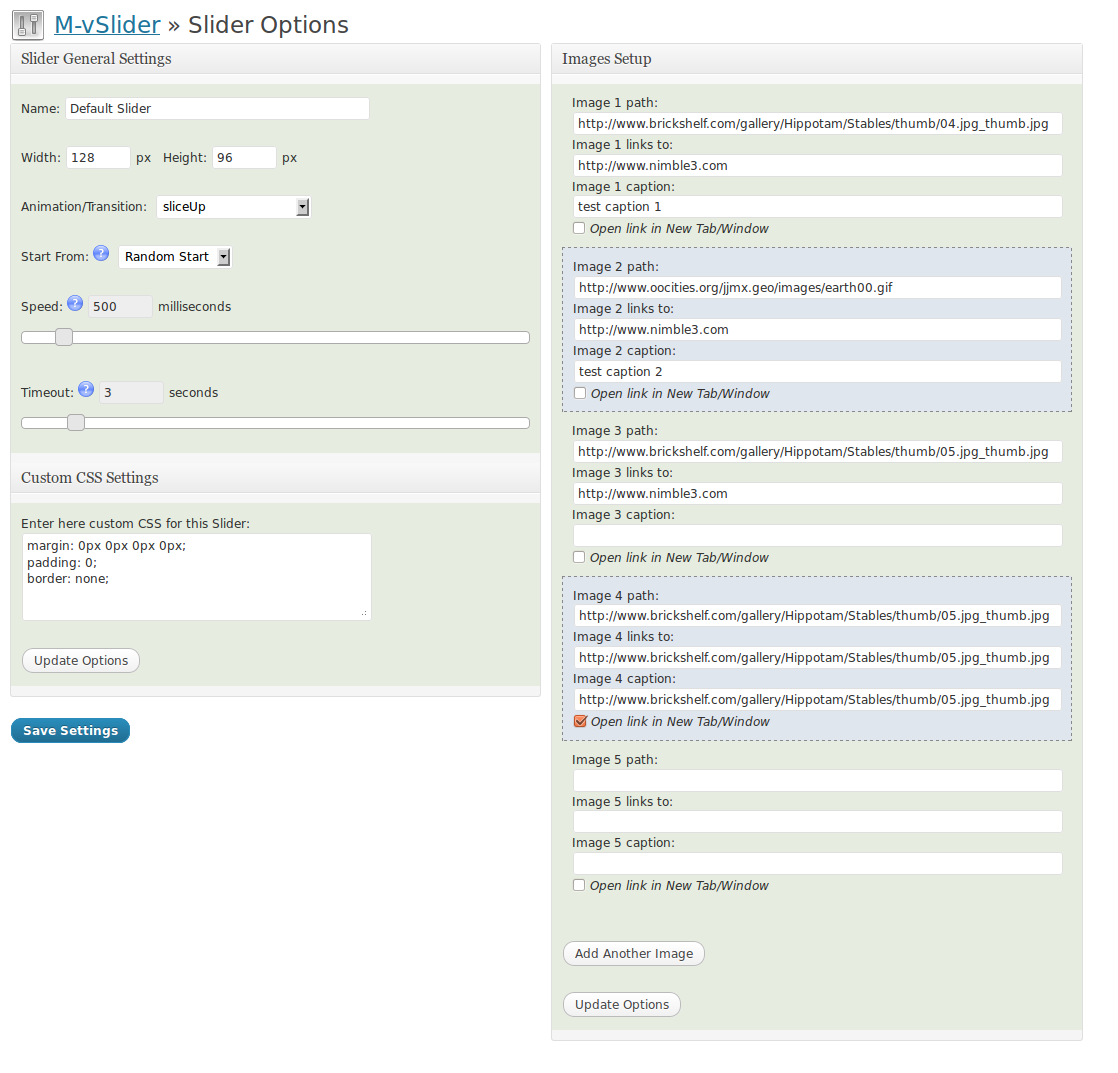
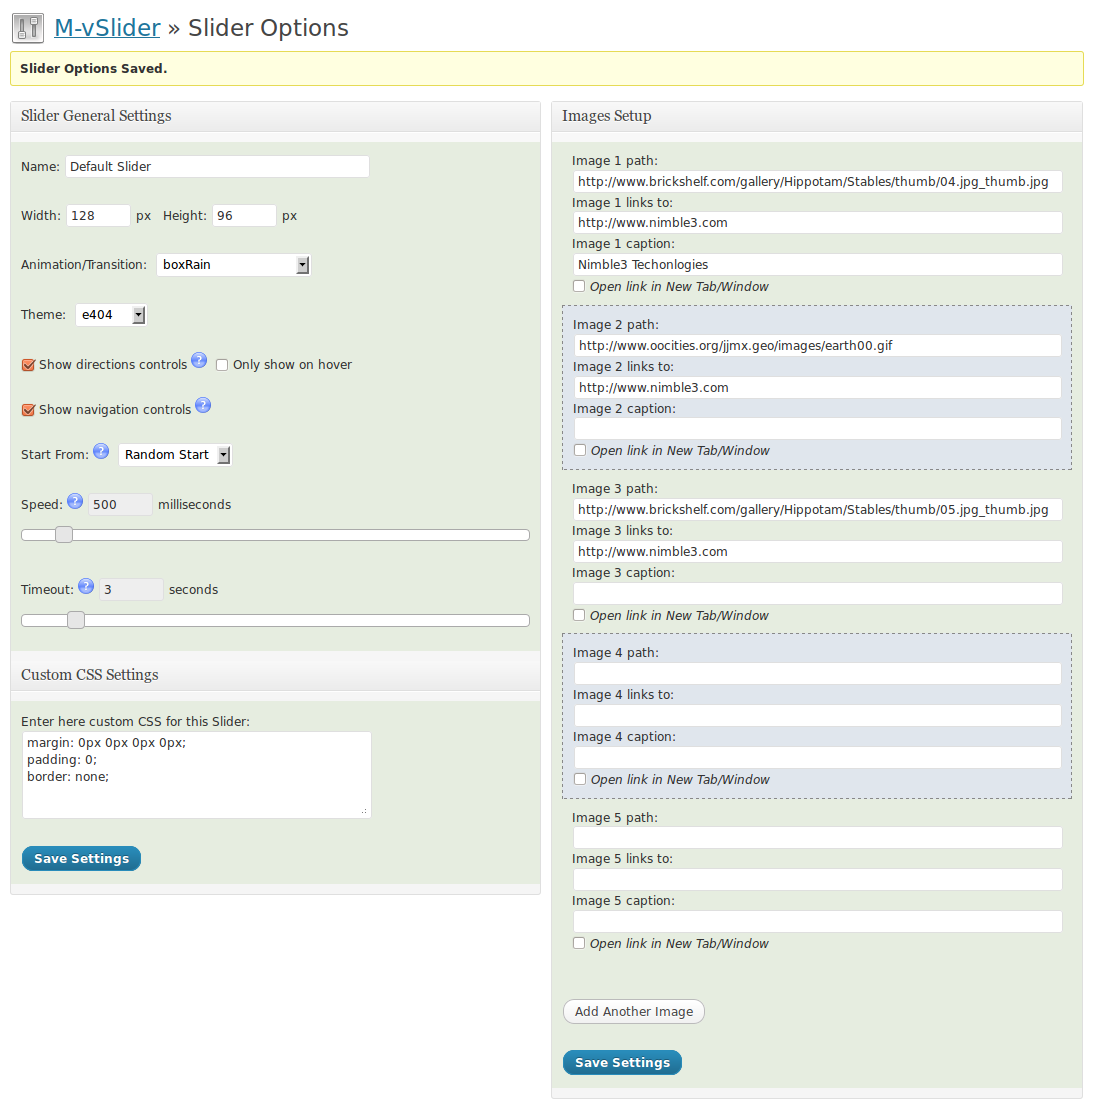
releasing 2.1.0
git-svn-id: https://plugins.svn.wordpress.org/m-vslider/trunk@573049 b8457f37-d9ea-0310-8a92-e5e31aec5664

diff --git a/themes/e404/e404.css b/themes/e404/e404.css
@@ -1,0 +1,109 @@
+.theme-e404.slider-wrapper  {
+    position: relative;
+	background:#fff url(loading.gif) no-repeat 50% 50%;
+    
+}
+
+.theme-e404 .nivo-caption {
+	background-image: url("hover_dark_bg.png");
+	color: #fff;
+	bottom: -30px;
+	font-size: 20px;
+	line-height: 24px;
+	width: auto;
+	z-index:89;
+}
+.theme-e404 .nivo-caption {
+	bottom: 20px;
+}
+.theme-e404 .nivo-caption p {
+	padding: 0 30px;
+	margin:0;
+}
+.theme-e404 .nivo-caption p {
+	padding: 12px 30px;
+}
+
+
+.theme-e404 .nivo-controlNav a.active {
+	font-weight:bold;
+}
+
+.theme-e404  img {
+	position:absolute;
+	top:0px;
+	left:0px;
+	display:none;
+}
+.theme-e404  a {
+	border:0;
+	display:block;
+}
+
+.theme-e404 .nivo-controlNav {
+	position:absolute;
+	right: 30px;
+	bottom: -30px;
+}
+
+.theme-e404 .nivo-controlNav {
+	top: 20px;
+}
+
+.theme-e404 .nivo-controlNav a {
+	display:block;
+	width:22px;
+	height:22px;
+	background:url(bullets.png) no-repeat;
+	text-indent:-9999px;
+	border:0;
+	margin-right:3px;
+	float:left;
+	position:relative;
+	z-index:990;
+	cursor:pointer;        
+}
+
+.theme-e404 .nivo-controlNav a.active {
+	background-position:0 -22px;
+}
+.theme-e404 .nivo-directionNav {
+	top: 130px;
+}
+.theme-e404 .nivo-directionNav a {
+	display:block;
+	width:43px;
+	height:43px;
+	background:url(arrows.png) no-repeat;
+	text-indent:-9999px;
+	border:0;
+}
+.theme-e404 a.nivo-nextNav {
+	background-position: -43px 0;
+	right:-61px;
+}
+.theme-e404 a.nivo-prevNav {
+	left:-61px;
+}
+.theme-e404 a.nivo-nextNav {
+	background-position: -43px 0;
+	right:15px;
+}
+
+.theme-e404 a.nivo-prevNav {
+	left:15px;
+}
+
+.theme-e404 a.nivo-nextNav:hover {
+	background-position: -43px -43px;
+}
+.theme-e404 a.nivo-prevNav:hover {
+	background-position: 0 -43px;
+}
+.theme-e404 .nivo-caption {
+    font-family: Helvetica, Arial, sans-serif;
+}
+.theme-e404 .nivo-caption a { 
+    color:#efe9d1;
+    text-decoration:underline;
+}

diff --git a/rslider-admin.js b/rslider-admin.js
@@ -38,5 +38,16 @@ jQuery(document).ready(function() {
             jQuery('#rs_totalimgs').attr('value',rs_totalimgs + 1);
         }
     });
+    
+    jQuery('#rs_showdir').click(function(){
+        jQuery('#rs_showhover').attr('disabled', 'disabled');
+        if(jQuery(this).attr('checked') == "checked") 
+           jQuery('#rs_showhover').removeAttr('disabled');
+    });
+
+    jQuery('#rs_showhover').attr('disabled', 'disabled');
+    if(jQuery('#rs_showdir').attr('checked') == "checked") 
+        jQuery('#rs_showhover').removeAttr('disabled');
+
 });
             

diff --git a/rslider.php b/rslider.php
@@ -5,7 +5,7 @@
   Description: Implementing a featured image gallery into your WordPress theme has never been easier! Showcase your portfolio, animate your header or manage your banners with M-vSlider. M-vSlider by  Muhammad Amir Ul Amin.
   Author: M. Amir Ul Amin
   Author URI: http://www.nimble3.com
-  Version: 2.0.1
+  Version: 2.0.0
 
   M-vSlider is released under GPL:
   http://www.opensource.org/licenses/gpl-license.php
@@ -14,7 +14,6 @@
 // Load jQuery from WordPress
 function rslider_enqueue() {
     wp_enqueue_style('nivo-slider-style', WP_PLUGIN_URL . '/m-vslider/nivo-slider.css', null, null, 'screen');
-    wp_enqueue_style('nivo-slider-theme', WP_PLUGIN_URL . '/m-vslider/themes/default/default.css', null, null, 'screen');
     wp_enqueue_script('jquery-nivo-slider', WP_PLUGIN_URL . '/m-vslider/jquery.nivo.slider.js', array('jquery'));
 }
 
@@ -32,6 +31,7 @@ function rslider_head() {
         $rs_script_tag = "";
         foreach ($mainrows as $myslider) {
             $rs_id = $myslider->rs_id;
+            $rs_options = unserialize($myslider->rs_options);
             $rs_name = $myslider->rs_name;
             $rs_width = $myslider->rs_width;
             $rs_height = $myslider->rs_height;
@@ -41,14 +41,20 @@ function rslider_head() {
             $rs_timeout = $myslider->rs_timeout * 1000;
             $rs_type = $myslider->rs_type;
             $rs_type = $rs_type == "random_start" ? 'true' : 'false';
+            $rs_showdir = $rs_options['rs_showdir'];
+            $rs_showdir = $rs_showdir ? 'true' : 'false';
+            $rs_shownav = $rs_options['rs_shownav'];
+            $rs_shownav = $rs_shownav ? 'true' : 'false';
+            $rs_showhover = $rs_options['rs_showhover'];
+            $rs_showhover = $rs_showhover && $rs_showdir ? 'true' : 'false';
             $rs_style_tag .= "#rslider$rs_id { width: {$rs_width}px; height: {$rs_height}px; $rs_css }\n";
             $rs_script_tag .= "jQuery('#rslider$rs_id').nivoSlider({ 
                                     effect: '$rs_animstyle',
                                     animSpeed: $rs_speed, 
                                     pauseTime: $rs_timeout,
-                                    directionNav: false, 
-                                    directionNavHide: true, 
-                                    controlNav: false, 
+                                    directionNav: $rs_showdir, 
+                                    directionNavHide: $rs_showhover, 
+                                    controlNav: $rs_shownav, 
                                     controlNavThumbs: false,
                                     pauseOnHover: true, 
                                     randomStart: $rs_type
@@ -82,8 +88,11 @@ function rslider($atts = 0) {
     if ($rs_rows = $wpdb->get_results($rs_sql)) {
         if ($rs_rows[0]) {
             $rs_row = $rs_rows[0];
+            $rs_options = unserialize($rs_row->rs_options);
+            $rs_theme = $rs_options['rs_theme'];
+            wp_enqueue_style('nivo-slider-theme', WP_PLUGIN_URL . "/m-vslider/themes/$rs_theme/$rs_theme.css", null, null, 'screen');
             ?>
-            <div class="slider-wrapper" style="<?php echo "width: {$rs_row->rs_width}px; height: {$rs_row->rs_height}px;";?>">
+            <div class="slider-wrapper theme-<?php echo $rs_theme;?>" style="<?php echo "width: {$rs_row->rs_width}px;";?>">
                 <div id="rslider<?php echo $rs_id; ?>" class="nivoSlider">
                     <?php
                     $rs_images = unserialize($rs_row->rs_images);
@@ -297,6 +306,13 @@ function rslider_page() {
 
         if ('process' == $_POST['tcOptions']) {
 
+            $rs_options = array(
+                'rs_showdir' => $_POST['rs_showdir'],
+                'rs_shownav' => $_POST['rs_shownav'],
+                'rs_showhover' => $_POST['rs_showhover'],
+                'rs_theme' => $_POST['rs_theme']
+            );
+
             $updatequery = "UPDATE $table_slider SET rs_name='" . $_POST['rs_name'] . "',";
 
             if ($_POST['rs_width']) {
@@ -321,11 +337,18 @@ function rslider_page() {
                 $updatequery .= " rs_type = '" . $_POST['rs_type'] . "',";
             }
 
+            $updatequery .= " rs_options = '" . stripslashes(serialize($rs_options)) . "',";
+
             $rs_count = $_POST['rs_totalimgs'] > $rs_config_count ? $_POST['rs_totalimgs'] : $rs_config_count;
             $rs_images = array();
             for ($i = 0; $i < $rs_count; $i++) {
                 if ($_POST["rs_img$i"]) {
-                    $rs_images[] = array('img' => $_POST["rs_img$i"], 'url' => $_POST["rs_lnk$i"], 'cap' => $_POST["rs_cap$i"], 'blank' => array_key_exists("rs_bnk$i", $_POST));
+                    $rs_images[] = array(
+                        'img' => $_POST["rs_img$i"], 
+                        'url' => $_POST["rs_lnk$i"], 
+                        'cap' => $_POST["rs_cap$i"], 
+                        'blank' => array_key_exists("rs_bnk$i", $_POST)
+                    );
                 }
             }
 
@@ -347,6 +370,7 @@ function rslider_page() {
         $rs_timeout = $myslider->rs_timeout;
         $rs_type = $myslider->rs_type;
         $rs_images = unserialize($myslider->rs_images);
+        $rs_options = unserialize($myslider->rs_options);
 
         if ($rs_width == "") {
             $rs_width = 250;
@@ -363,6 +387,11 @@ function rslider_page() {
         if ($rs_css == "") {
             $rs_css = "margin: 0px 0px 0px 0px; padding: 0; border: none;";
         }
+        
+        $rs_showdir = $rs_options['rs_showdir'];
+        $rs_shownav = $rs_options['rs_shownav'];
+        $rs_showhover = $rs_options['rs_showhover'];
+        $rs_theme = $rs_options['rs_theme'];
 
         $rs_count = count($rs_images) > $rs_config_count ? count($rs_images) : $rs_config_count;
         ?>
@@ -410,6 +439,32 @@ function rslider_page() {
                                 </select>
                             </p>
                             <p>
+                                <?php _e("Theme:"); ?>&nbsp;
+                                <select name="rs_theme">
+                                    <?php 
+                                        if (is_dir(M_VSLIDER_DIR_THEMES_DIR))
+                                        {
+                                            $thd = dir(M_VSLIDER_DIR_THEMES_DIR);
+                                            while (false !== ($theme_name = $thd->read())) { 
+                                                echo M_VSLIDER_DIR_THEMES_DIR . $theme_name;
+                                                if( $theme_name == "." || $theme_name == ".." ) { continue; }
+                                    ?>
+                                                <option style="padding-right:10px;" value="<?php echo $theme_name;?>" <?php selected($theme_name, $rs_theme); ?>><?php echo ($theme_name); ?></option>
+                                    <?php                                                
+                                            }
+                                            $thd->close();                                            
+                                        }
+                                    ?>
+                                </select>
+                            </p>
+                            <p>
+                                <label><input type="checkbox" id="rs_showdir" name="rs_showdir" value="1" <?php echo ($rs_showdir?" checked='checked' ":""); ?> /> <?php _e("Show directions controls"); ?>&nbsp;</label><img title="Show Next and Previous controls" src="<?php echo WP_PLUGIN_URL; ?>/m-vslider/help.png">&nbsp;
+                                <label><input type="checkbox" id="rs_showhover" name="rs_showhover" value="1" <?php echo ($rs_showhover?" checked='checked' ":""); ?> /> <?php _e("Only show on hover"); ?></label>
+                            </p>
+                            <p>
+                                <label><input type="checkbox" name="rs_shownav" value="1" <?php echo ($rs_shownav?" checked='checked' ":""); ?> /> <?php _e("Show navigation controls"); ?></label>&nbsp;<img title="Show 1,2,3 navigation" src="<?php echo WP_PLUGIN_URL; ?>/m-vslider/help.png">
+                            </p>
+                            <p>
                                 <?php _e("Start From:"); ?>&nbsp;<img title="Start from first slide (Sequenece) or a random slide (Random Start)" src="<?php echo WP_PLUGIN_URL; ?>/m-vslider/help.png">&nbsp;
                                 <select name="rs_type">
                                     <option style="padding-right:10px;" value="sequence" <?php selected('sequence', $rs_type); ?>><?php _e("Sequence"); ?></option>
@@ -433,10 +488,9 @@ function rslider_page() {
                             <p>Enter here custom CSS for this Slider:<br />
                                 <textarea name="rs_css" style="width:350px;" rows="4"><?php echo stripslashes($rs_css); ?></textarea>
                             </p>
-                            <p><input type="submit" class="button" name="save" value="<?php _e('Update Options') ?>" /></p>
+                            <p><input type="submit" class="button-primary" name="save" value="<?php _e('Save Settings') ?>" /></p>
                         </div>
                     </div>
-                    <p><input type="submit" class="button-primary" name="save" value="<?php _e('Save Settings') ?>" /></p>
                 </div>
                 <!-- End First Column -->
                 <!-- Start Second Column -->
@@ -462,7 +516,7 @@ function rslider_page() {
                             <div id="rs_divinside"></div>
                             <p><input type="hidden" name="rs_totalimgs" id="rs_totalimgs" value="<?php echo $rs_count; ?>" /></p>
                             <p><input type="button" class="button" name="rs_addnewimg" id="rs_addnewimg" value="<?php _e('Add Another Image') ?>" /></p>
-                            <p><input type="submit" class="button" name="save" value="<?php _e('Update Options') ?>" /></p>
+                            <p><input type="submit" class="button-primary" name="save" value="<?php _e('Save Settings') ?>" /></p>
                         </div>
                     </div>
 
@@ -609,6 +663,8 @@ global $rslider_db_version;
 global $table_slider;
 $rslider_db_version = "1.1";
 $table_slider = $wpdb->prefix . 'rs_slider';
+define('M_VSLIDER_DIR', dirname(__FILE__));
+define('M_VSLIDER_DIR_THEMES_DIR', M_VSLIDER_DIR . "/themes/");
 
 register_activation_hook(__FILE__, 'rslider_install');
 add_action('wp_enqueue_scripts', 'rslider_enqueue');
